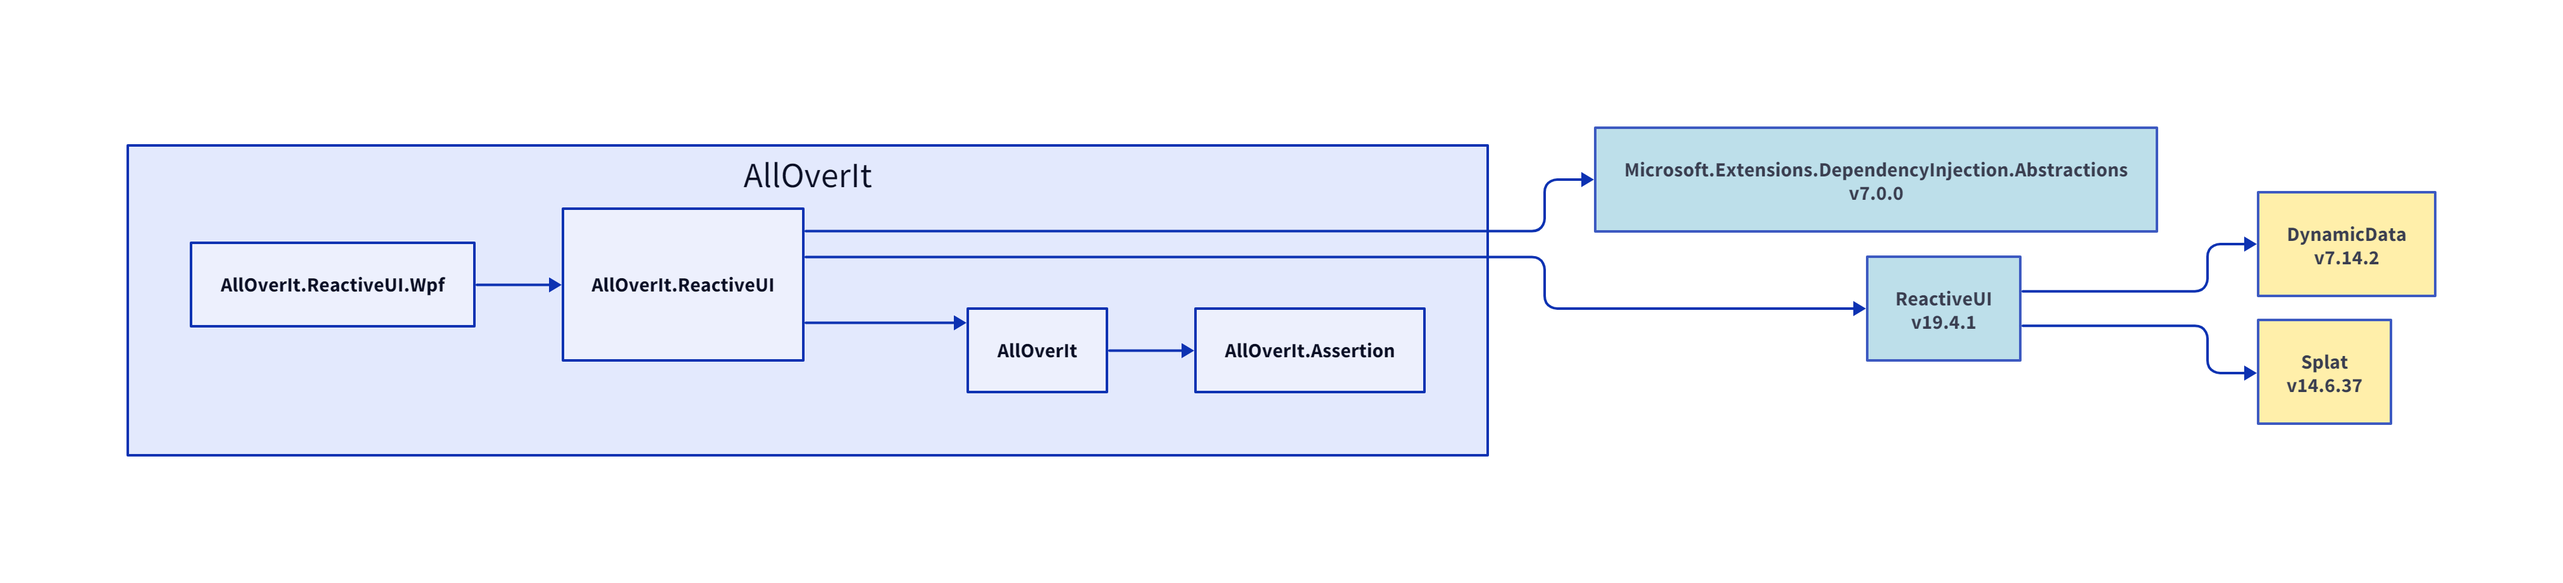
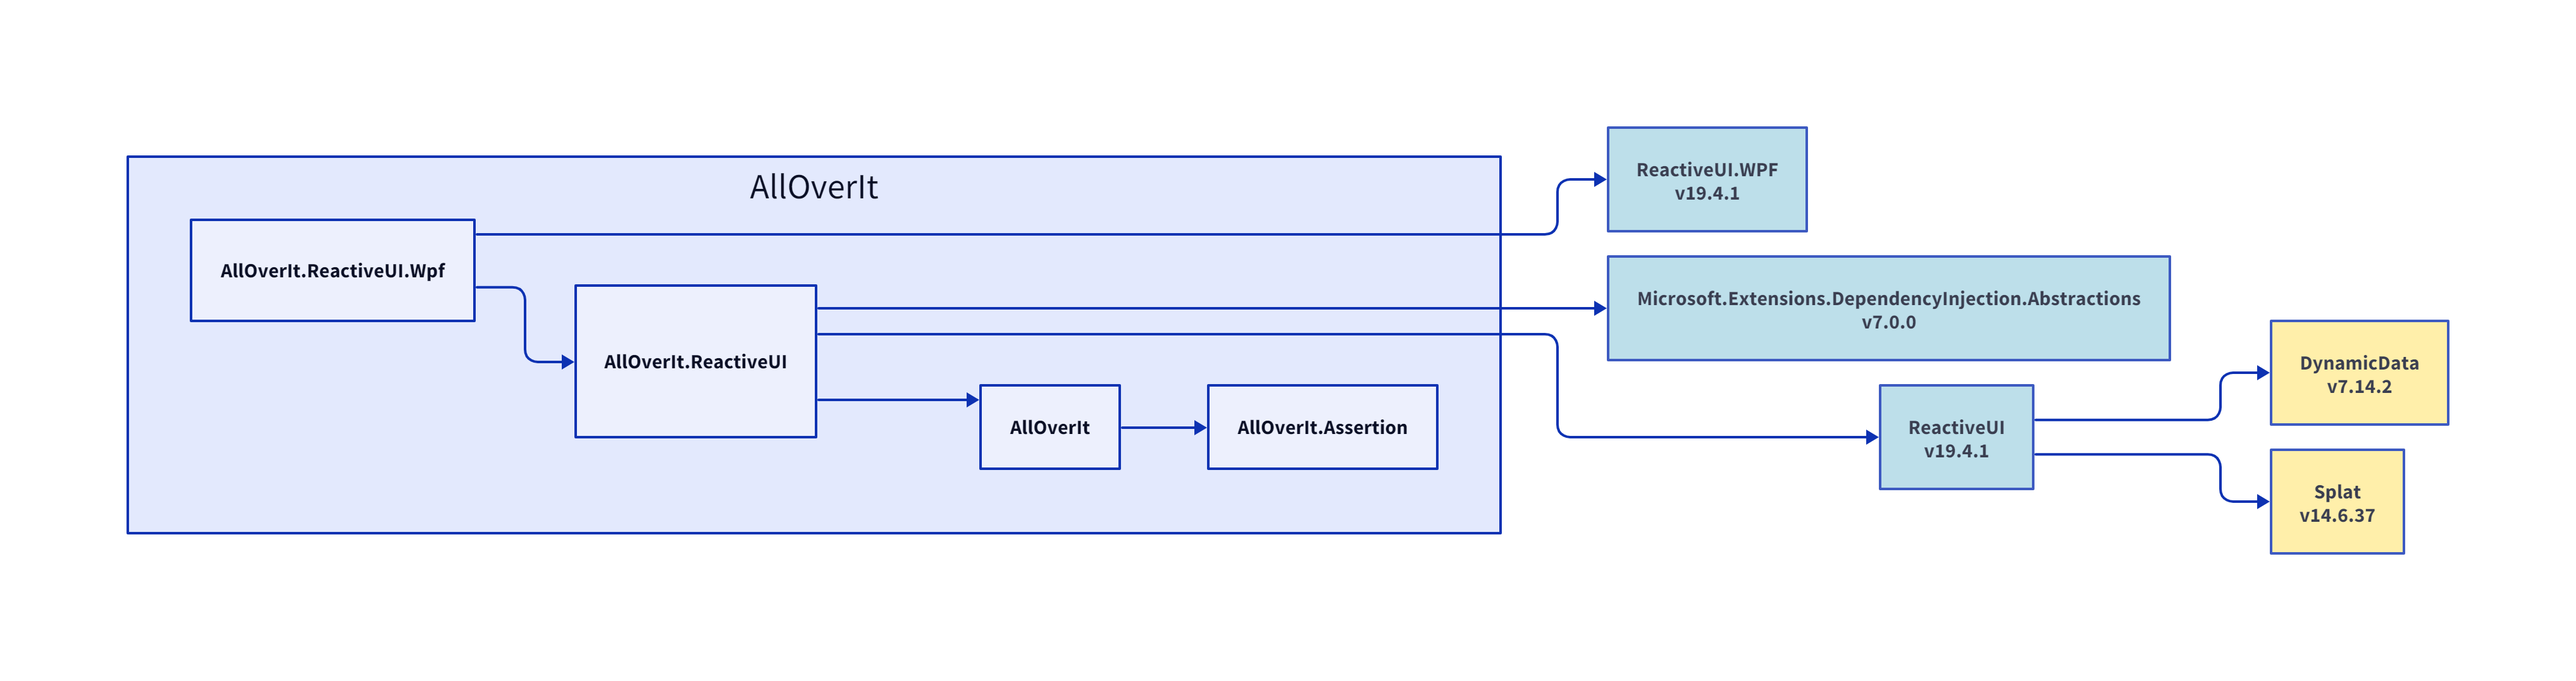
Dependency diagram updates

diff --git a/Docs/Dependencies/Dependency Summary.md b/Docs/Dependencies/Dependency Summary.md
@@ -404,6 +404,7 @@
 * DynamicData v7.14.2
 * Microsoft.Extensions.DependencyInjection.Abstractions v7.0.0
 * ReactiveUI v19.4.1
+* ReactiveUI.WPF v19.4.1
 * Splat v14.6.37
 
 <br>
